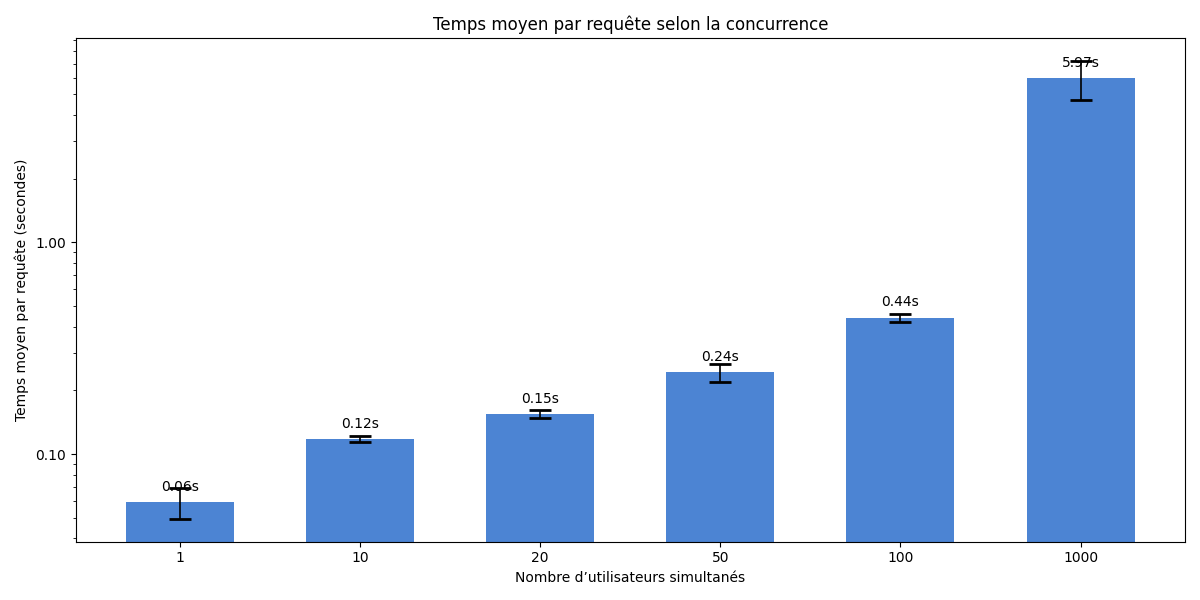
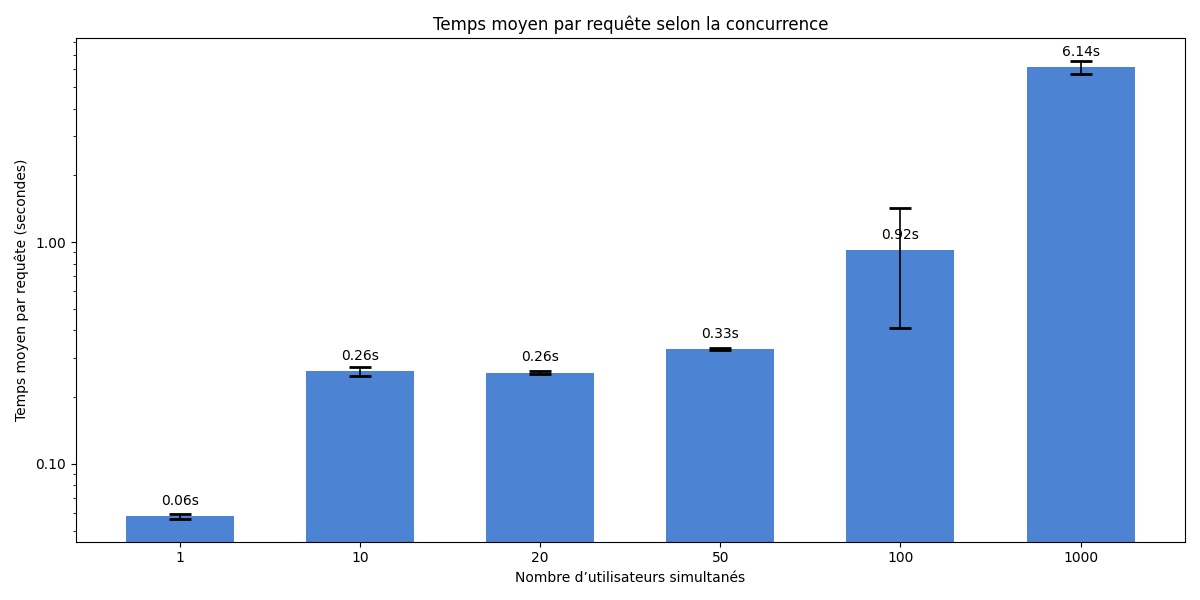
modif du readme

diff --git a/README.md b/README.md
@@ -7,32 +7,32 @@ Présentation des résultats CSV présents dans le dossier `out/`. Pour chaque e
 - Un tableau reprenant les lignes du CSV correspondant aux valeurs en provenance de  `out/`),
 - L'image du graphe associé.
 
-**Remarque** : j'ai utilisé `hey` (heybenchmark) au lieu d'ApacheBench (`ab`) parce que `ab` provoquait des timeouts sur mes tests. J'ai aussi modifié sur mon `google cloud console` le fichier `seed.py` pour qu'il insère plus rapidement dans les tables. Pour finir, le fichier `reset_tables.py` a été utilisé pour vider les tables `Post` et `User`.
+**Remarque** : j'ai utilisé `hey` (heybenchmark) au lieu d'ApacheBench (`ab`) parce que `ab` provoquait des timeouts sur mes tests. J'ai aussi modifié sur mon `google cloud console` le fichier `seed.py` pour qu'il insère plus rapidement dans les tables. Pour finir, le fichier `reset_tables.py` a été utilisé pour vider les tables `Post` et `User`. J'ai utilisé un script python qui utilise `asyncio` pour gérer le parralélisme des requêtes.
 
 ## Concurrence (`out/conc.csv`)
 
 Paramètres CSV :
-
 | PARAM | AVG_TIME | RUN | FAILED |
 |---:|---:|---:|---:|
-| 1 | 70.1 | 1 | 0 |
-| 1 | 55.6 | 2 | 0 |
-| 1 | 51.7 | 3 | 0 |
-| 10 | 113.0 | 1 | 0 |
-| 10 | 120.8 | 2 | 0 |
-| 10 | 118.8 | 3 | 0 |
-| 20 | 157.8 | 1 | 0 |
-| 20 | 159.3 | 2 | 0 |
-| 20 | 147.2 | 3 | 0 |
-| 50 | 255.6 | 1 | 0 |
-| 50 | 257.3 | 2 | 0 |
-| 50 | 215.6 | 3 | 0 |
-| 100 | 425.7 | 1 | 0 |
-| 100 | 435.2 | 2 | 0 |
-| 100 | 463.5 | 3 | 0 |
-| 1000 | 4952.8 | 1 | 0 |
-| 1000 | 5608.8 | 2 | 0 |
-| 1000 | 7354.7 | 3 | 0 |
+| 1 | 58.790171 | 1 | 0 |
+| 1 | 56.354456 | 2 | 0 |
+| 1 | 58.870938 | 3 | 0 |
+| 10 | 275.573301 | 1 | 0 |
+| 10 | 253.105996 | 2 | 0 |
+| 10 | 255.876499 | 3 | 0 |
+| 20 | 253.241969 | 1 | 0 |
+| 20 | 259.843746 | 2 | 0 |
+| 20 | 260.654418 | 3 | 0 |
+| 50 | 332.069559 | 1 | 0 |
+| 50 | 327.036626 | 2 | 0 |
+| 50 | 329.091950 | 3 | 0 |
+| 100 | 621.635210 | 1 | 0 |
+| 100 | 626.274089 | 2 | 0 |
+| 100 | 1507.057411 | 3 | 0 |
+| 1000 | 5793.259862 | 1 | 0 |
+| 1000 | 5994.470221 | 2 | 0 |
+| 1000 | 6624.679375 | 3 | 0 |
+
 
 Graphe associé :
 
@@ -42,17 +42,18 @@ Graphe associé :
 
 Paramètres CSV :
 
-| PARAM | AVG_TIME | RUN | FAILED |
-|---:|---:|---:|---:|
-| 50 | 270.9 | 1 | 0 |
-| 50 | 249.9 | 2 | 0 |
-| 50 | 228.7 | 3 | 0 |
-| 50 | 268.0 | 1 | 0 |
-| 50 | 226.1 | 2 | 0 |
-| 50 | 194.1 | 3 | 0 |
-| 50 | 6260.8 | 1 | 0 |
-| 50 | 5776.5 | 2 | 0 |
-| 50 | 6125.2 | 3 | 0 |
+| RUN | AVG_TIME | FAILED |
+|---:|---:|---:|
+| 1 | 296.363276 | 0 |
+| 2 | 302.325786 | 0 |
+| 3 | 299.847851 | 0 |
+| 1 | 356.433575 | 0 |
+| 2 | 349.396688 | 0 |
+| 3 | 353.280024 | 0 |
+| 1 | 327.134374 | 0 |
+| 2 | 305.451821 | 0 |
+| 3 | 303.773398 | 0 |
+
 
 Graphe associé :
 
@@ -62,17 +63,17 @@ Graphe associé :
 
  Paramètres CSV :
 
-| PARAM | AVG_TIME | RUN | FAILED |
-|---:|---:|---:|---:|
-| 50 | 376.5 | 1 | 0 |
-| 50 | 340.5 | 2 | 0 |
-| 50 | 326.7 | 3 | 0 |
-| 50 | 449.8 | 1 | 0 |
-| 50 | 437.8 | 2 | 0 |
-| 50 | 443.2 | 3 | 0 |
-| 50 | 7440.0 | 1 | 0 |
-| 50 | 8385.2 | 2 | 0 |
-| 50 | 12858.6 | 3 | 0 |
+| RUN | AVG_TIME | FAILED |
+|---:|---:|---:|
+| 1 | 309.738523 | 0 |
+| 2 | 311.650689 | 0 |
+| 3 | 336.177380 | 0 |
+| 1 | 8432.654651 | 0 |
+| 2 | 8432.417249 | 0 |
+| 3 | 8272.648992 | 0 |
+| 1 | 16336.609924 | 0 |
+| 2 | 15549.078632 | 0 |
+| 3 | 15771.376526 | 0 |
 
 Graphe associé :
 
